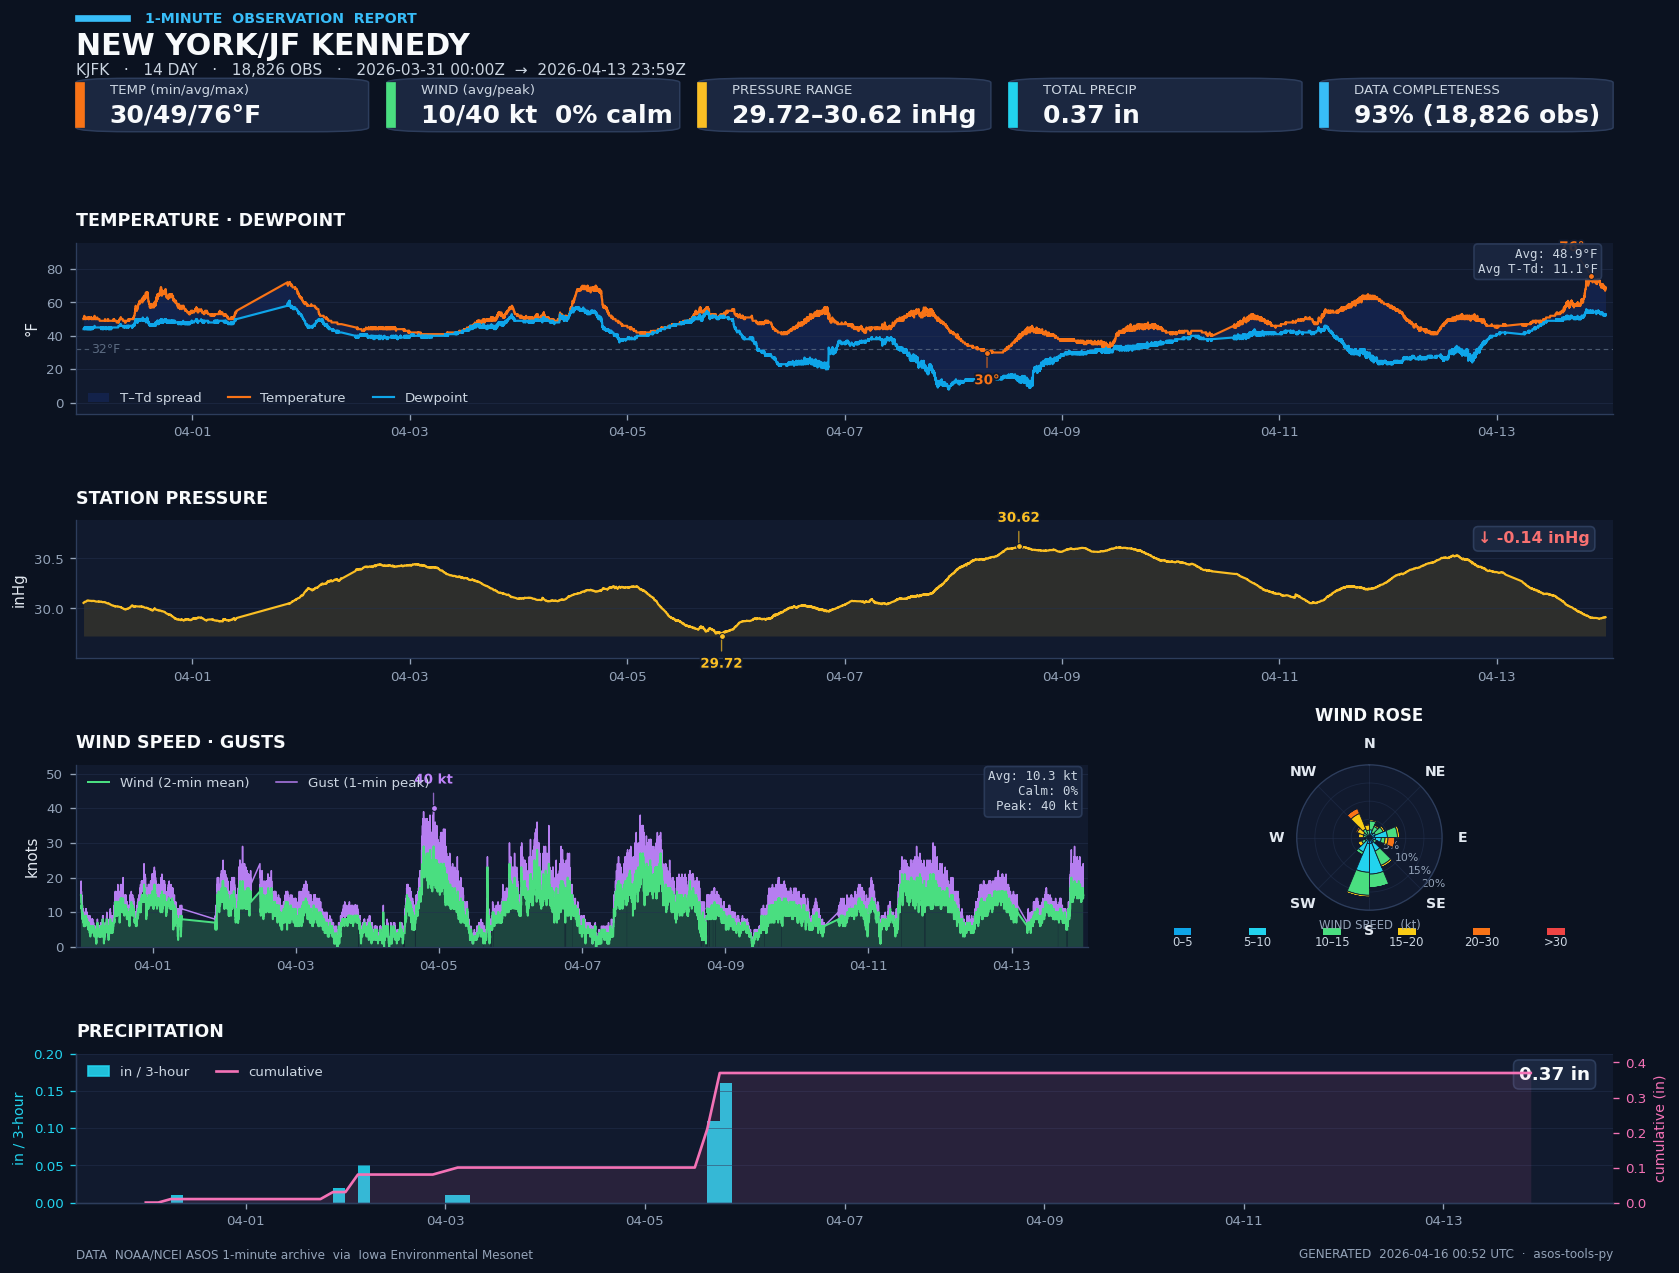
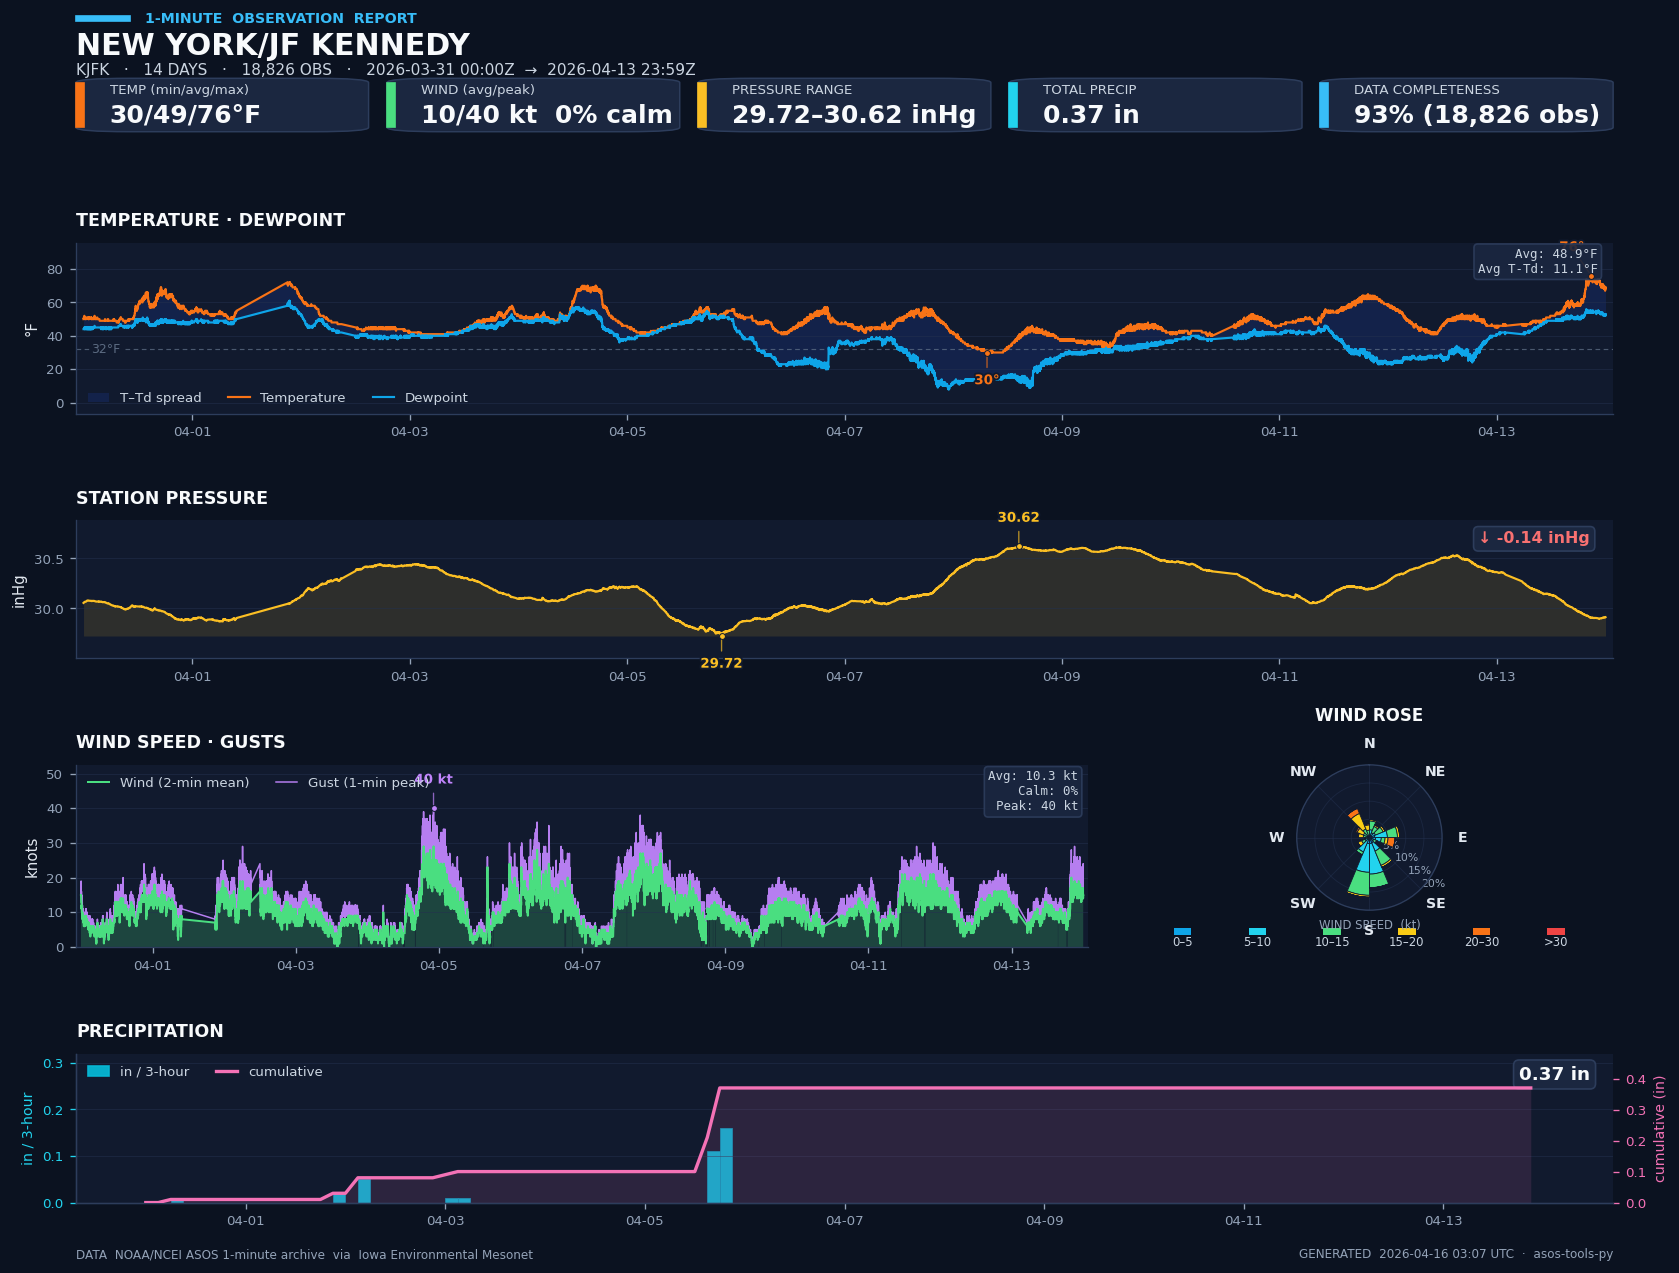
Fix precip panel: visible bars when data exists, clear message when not
Two problems:
1. When precip existed but values were tiny (0.01 in/min), bars were
   nearly invisible because ylim was set to bar_max * 1.25 — too tight.
   Now set to bar_max * 2.0 (bars occupy at least half the panel)
   with a minimum of 0.02.

2. When total precip was zero, the panel showed empty axes with no
   explanation. Now shows "No precipitation recorded in this window"
   with the 0.00 in pill.

Also: brighter bar color (#06b6d4 cyan-500 with #0891b2 edge) and
thicker cumulative line (lw=2.0) for better contrast on dark bg.

diff --git a/asos_tools/report.py b/asos_tools/report.py
@@ -543,9 +543,26 @@ def _panel_precip(ax, df: pd.DataFrame) -> None:
     ax.set_title("PRECIPITATION", loc="left")
     valid = df["valid"]
     if "precip" not in df or df["precip"].notna().sum() == 0:
-        ax.text(0.5, 0.5, "no precip data", transform=ax.transAxes,
-                ha="center", va="center", color=MUTED)
+        ax.text(0.5, 0.5, "No precipitation data available",
+                transform=ax.transAxes, ha="center", va="center",
+                color=MUTED, fontsize=10)
         ax.set_axis_off()
+        return
+
+    total = float(df["precip"].sum(skipna=True))
+
+    # If total precip is effectively zero, show a clear message.
+    if total < 0.005:
+        ax.text(0.5, 0.5, "No precipitation recorded in this window",
+                transform=ax.transAxes, ha="center", va="center",
+                color=MUTED, fontsize=10)
+        ax.set_axis_off()
+        # Still show the total pill.
+        ax.text(0.985, 0.92, "0.00 in",
+                transform=ax.transAxes, fontsize=11, fontweight="bold",
+                color=FG_HI, ha="right", va="top",
+                bbox=dict(facecolor=BG_CHIP, edgecolor=BORDER,
+                          boxstyle="round,pad=0.3"))
         return
 
     span = (valid.max() - valid.min()).total_seconds()
@@ -554,36 +571,37 @@ def _panel_precip(ax, df: pd.DataFrame) -> None:
     series = df.set_index("valid")["precip"].resample(freq).sum(min_count=1)
     width_days = pd.Timedelta(freq).total_seconds() / 86400
 
-    # Per-interval bars on primary axis.
+    # Per-interval bars — brighter color, thicker edge for visibility.
     ax.bar(series.index, series.values, width=width_days, align="edge",
-           color=C_PRECIP, edgecolor="none", alpha=0.9)
+           color="#06b6d4", edgecolor="#0891b2", linewidth=0.5, alpha=0.95)
     ax.set_ylabel(unit, color=C_PRECIP, fontsize=8.5)
     ax.tick_params(axis="y", colors=C_PRECIP, labelsize=8)
     ax.grid(True, axis="y", alpha=0.5)
     ax.margins(x=0.005)
-    # Reserve headroom so the bars don't kiss the top frame.
-    bar_max = float(series.max(skipna=True) or 0)
-    ax.set_ylim(0, bar_max * 1.25 if bar_max > 0 else 1.0)
 
-    # Cumulative overlay on twin axis, with its own headroom.
+    # Y-axis: ensure bars are always visually prominent — minimum ylim
+    # is 2× the max bar height so bars occupy at least half the panel.
+    bar_max = float(series.max(skipna=True) or 0)
+    ax.set_ylim(0, max(bar_max * 2.0, 0.02))
+
+    # Cumulative overlay on twin axis.
     cumulative = series.fillna(0).cumsum()
-    total = float(df["precip"].sum(skipna=True))
     ax2 = ax.twinx()
-    ax2.plot(cumulative.index, cumulative.values, color=C_CUM, lw=1.6,
+    ax2.plot(cumulative.index, cumulative.values, color=C_CUM, lw=2.0,
              zorder=5)
     ax2.fill_between(cumulative.index, 0, cumulative.values,
-                     color=C_CUM, alpha=0.10, linewidth=0)
+                     color=C_CUM, alpha=0.12, linewidth=0)
     ax2.set_ylabel("cumulative (in)", color=C_CUM, fontsize=8.5)
     ax2.tick_params(axis="y", colors=C_CUM, labelsize=8)
     ax2.spines["top"].set_visible(False)
     ax2.spines["right"].set_color(BORDER)
     ax2.grid(False)
-    ax2.set_ylim(0, max(total * 1.15, 0.05))
+    ax2.set_ylim(0, max(total * 1.3, 0.05))
 
-    # Unified legend, top-left.
+    # Unified legend.
     handles = [
-        plt.Rectangle((0, 0), 1, 1, color=C_PRECIP, alpha=0.9),
-        plt.Line2D([0], [0], color=C_CUM, lw=1.6),
+        plt.Rectangle((0, 0), 1, 1, color="#06b6d4", alpha=0.95),
+        plt.Line2D([0], [0], color=C_CUM, lw=2.0),
     ]
     ax.legend(handles, [unit, "cumulative"], loc="upper left",
               ncol=2, handlelength=1.6, fontsize=8)
